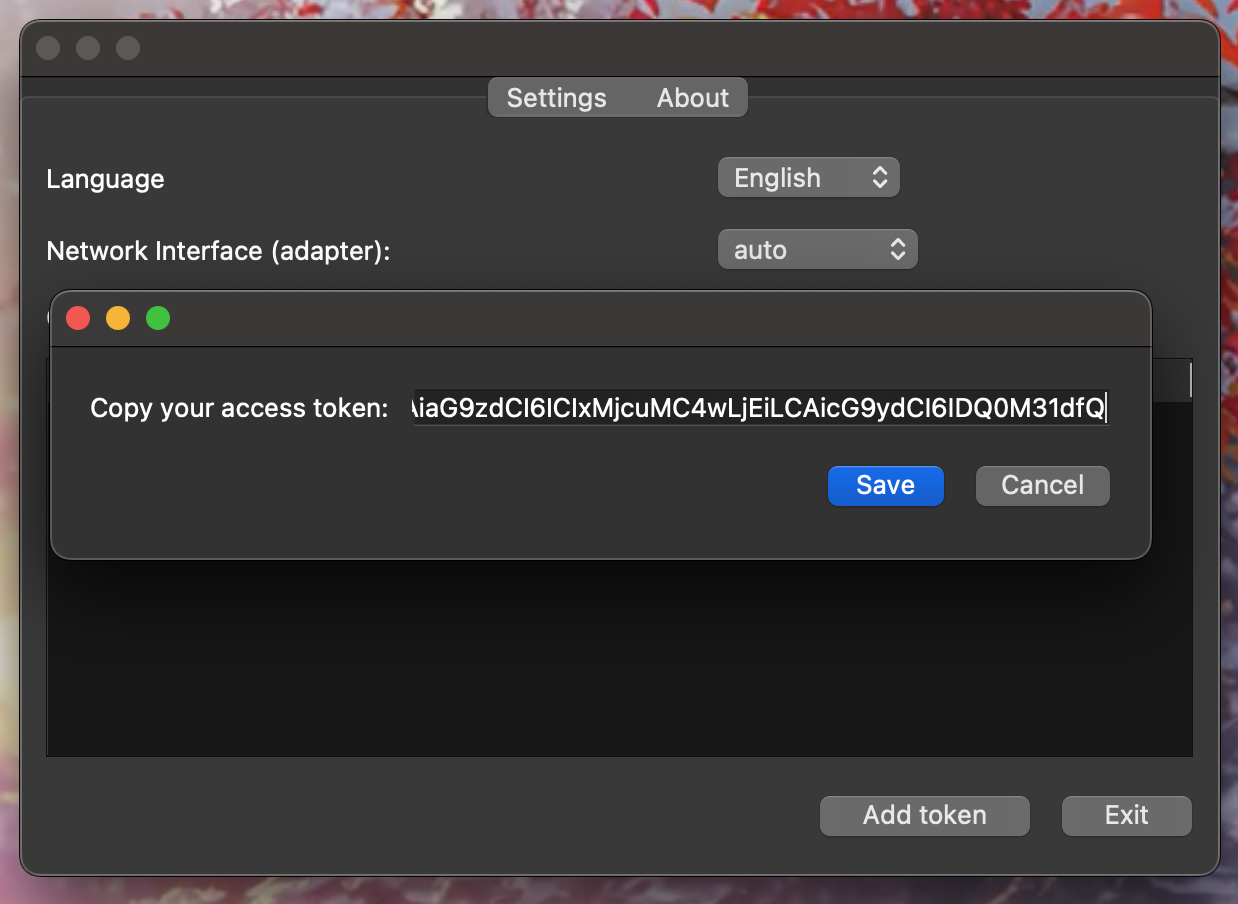
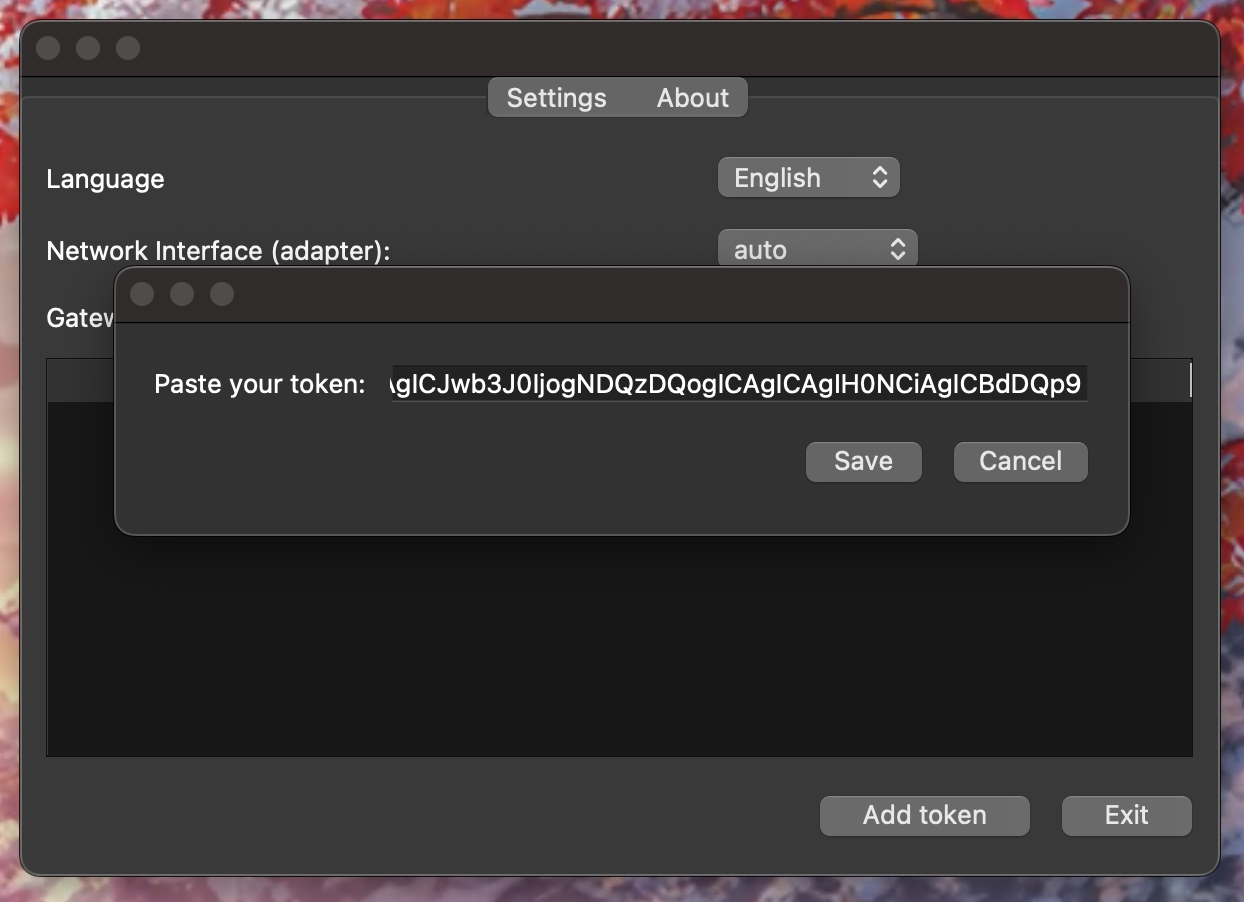
fix label

diff --git a/src/fptn-client/gui/resources/translations/fptn_ru.ts b/src/fptn-client/gui/resources/translations/fptn_ru.ts
@@ -159,8 +159,8 @@
         </message>
 
         <message>
-            <source>Copy your access token</source>
-            <translation>Скопируйте ваш токен</translation>
+            <source>Paste your token</source>
+            <translation>Вставьте ваш токен</translation>
         </message>
         <message>
             <source>Token</source>

diff --git a/src/fptn-client/gui/resources/translations/fptn_en.ts b/src/fptn-client/gui/resources/translations/fptn_en.ts
@@ -159,8 +159,8 @@
         </message>
 
         <message>
-            <source>Copy your access token</source>
-            <translation>Copy your access token</translation>
+            <source>Paste your token</source>
+            <translation>Paste your token</translation>
         </message>
         <message>
             <source>Token</source>

diff --git a/src/fptn-client/gui/tokendialog/tokendialog.cpp b/src/fptn-client/gui/tokendialog/tokendialog.cpp
@@ -10,7 +10,7 @@ using namespace fptn::gui;
 TokenDialog::TokenDialog(QWidget* parent)
     : QDialog(parent)
 {
-    label_ = new QLabel(QObject::tr("Copy your access token") + ": ", this);
+    label_ = new QLabel(QObject::tr("Paste your token") + ": ", this);
     tokenField_ = new QLineEdit(this);
     tokenField_->setPlaceholderText(QObject::tr("Token") + "...");
     tokenField_->setMinimumWidth(350);

diff --git a/README.md b/README.md
@@ -84,11 +84,11 @@ Go to the "Settings" menu, where you need to add the servers.
 To do this, obtain the access token, which contains the list of available servers. 
 Get the token by contacting our <a target="_blank" href="https://t.me/fptn_bot">Telegram bot</a>,
 
-<img style="max-height: 700px" class="img-center" src="docs/images/telegram_token.png" alt="Settings"/>
+<img style="max-height: 400px" class="img-center" src="docs/images/telegram_token.png" alt="Settings"/>
 
 Copy the token, click the "Add Token" button, paste it into the form, and save.
 
-<img style="max-height: 350px" class="img-center" src="docs/images/macos/settings-2.png" alt="Settings"/>
+<img style="max-height: 250px" class="img-center" src="docs/images/macos/settings-2.png" alt="Settings"/>
 
 After that, the available servers will appear in the list.
 
@@ -96,7 +96,7 @@ After that, the available servers will appear in the list.
 
 Ease of use:
 
-<img style="max-height: 350px" class="img-center" src="docs/images/macos/running-client.png" alt="Settings"/>
+<img style="max-height: 250px" class="img-center" src="docs/images/macos/running-client.png" alt="Settings"/>
 
 You can also easily turn your Raspberry Pi or Orange Pi into a WiFi access point and install the FPTN client on it.
 In this case, all devices connected to the WiFi will be able to access the internet, bypassing any restrictions.
